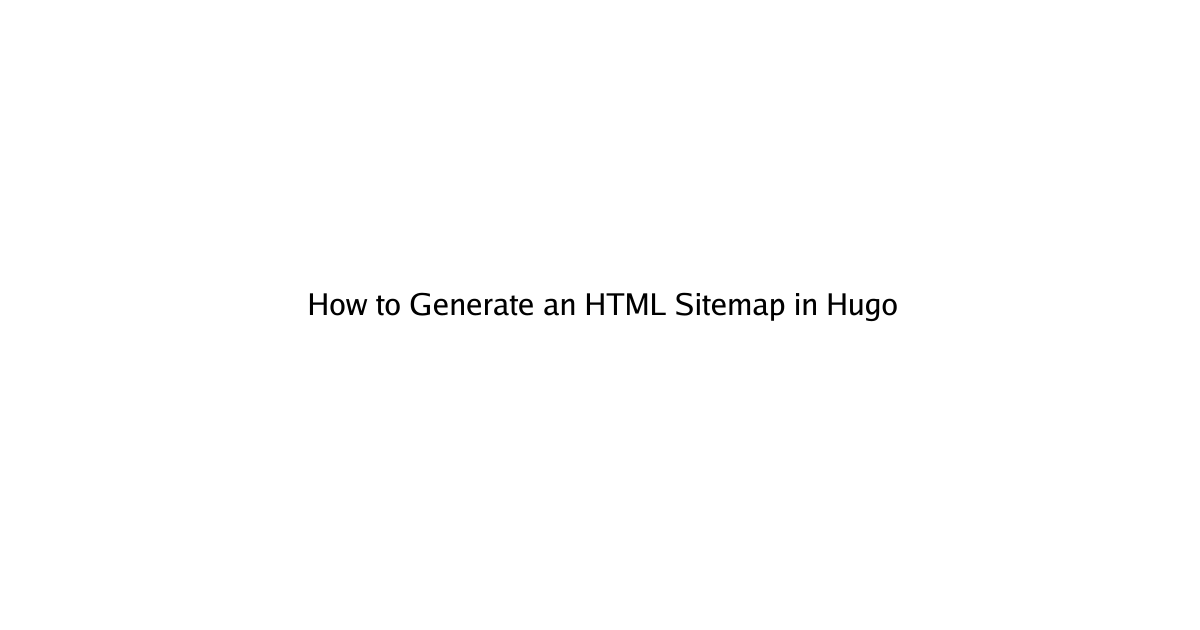
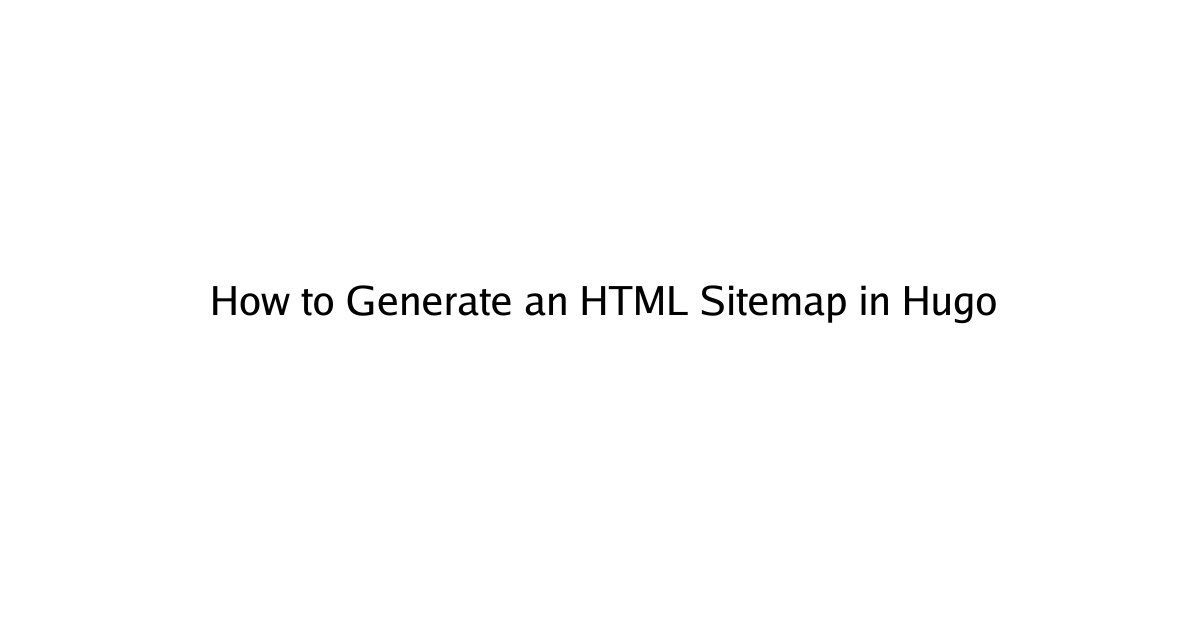
images

Changed region(s): [[0.1542, 0.4524, 0.8325, 0.5127]]

diff --git a/website/cmd/generate-og-images/main.go b/website/cmd/generate-og-images/main.go
@@ -88,7 +88,7 @@ func generateImage(title, outputPath string) {
 	c := freetype.NewContext()
 	c.SetDPI(72)
 	c.SetFont(f)
-	c.SetFontSize(30)
+	c.SetFontSize(40)
 	c.SetClip(img.Bounds())
 	c.SetDst(img)
 	c.SetSrc(image.NewUniform(color.Black))
@@ -104,7 +104,7 @@ func generateImage(title, outputPath string) {
 	
 	// Draw each line centered
 	for i, line := range lines {
-		textWidth := c.PointToFixed(30) * fixed.Int26_6(len(line)) / 2
+		textWidth := c.PointToFixed(40) * fixed.Int26_6(len(line)) / 2
 		x := (fixed.I(width) - textWidth) / 2
 		y := startY + lineHeight*fixed.Int26_6(i)
 		
@@ -138,8 +138,8 @@ func wrapText(text string, maxWidth int, c *freetype.Context) []string {
 		}
 		testLine += word
 		
-		// Rough estimate: 30px font ≈ 18px average character width
-		estimatedWidth := len(testLine) * 18
+		// Rough estimate: 40px font ≈ 24px average character width
+		estimatedWidth := len(testLine) * 24
 		if estimatedWidth > maxWidth && currentLine != "" {
 			lines = append(lines, currentLine)
 			currentLine = word
